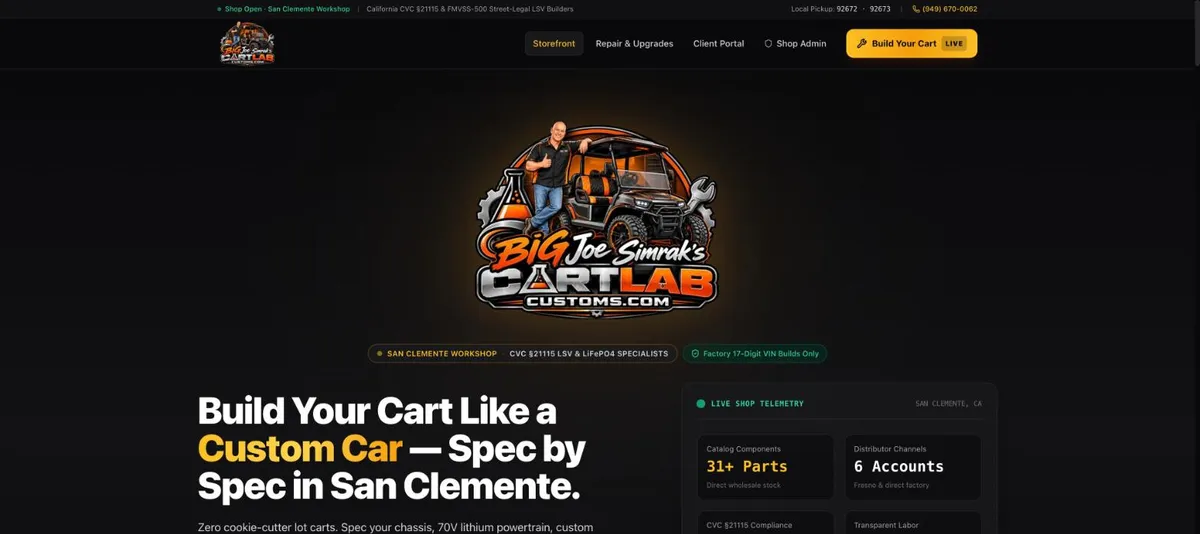
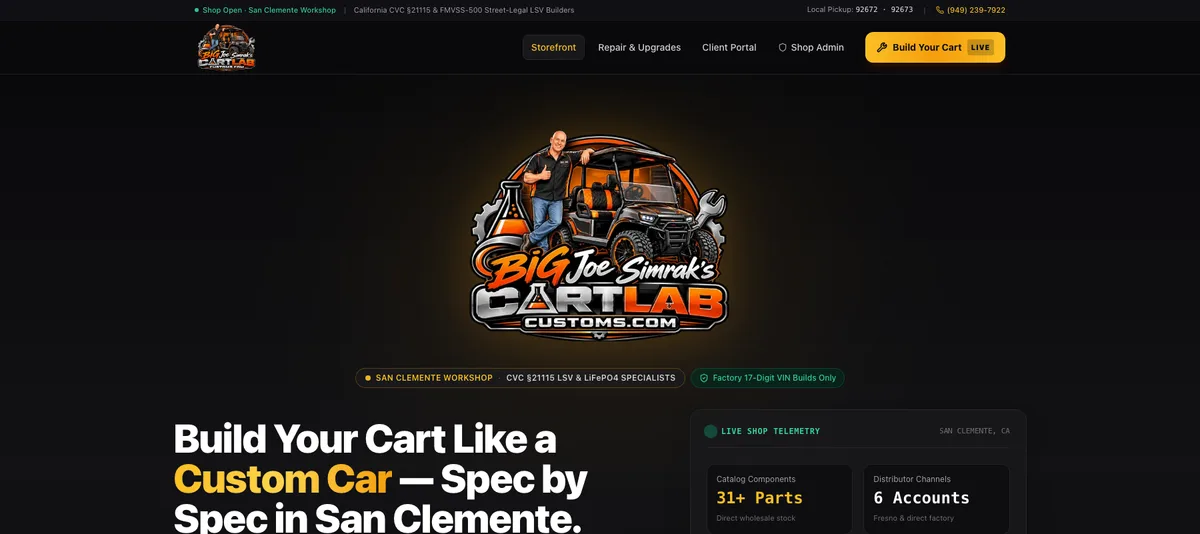
feat(portfolio): spotlight Joe Simrak's two sites (CartLab Customs, Second Wind Carts)
Adds a typed Project list and a two-up "Repeat client" row between the
featured Fix It card and the grid. Retook both screenshots from the live
sites so they show the current 949-239-7922 number.

diff --git a/components/Portfolio.tsx b/components/Portfolio.tsx
@@ -1,7 +1,17 @@
 import Image from "next/image";
 import { ExternalLink } from "lucide-react";
 
-const projects = [
+type Project = {
+  name: string;
+  description: string;
+  image: string;
+  alt: string;
+  tags: string[];
+  url: string;
+  spotlight?: boolean;
+};
+
+const projects: Project[] = [
   {
     name: "Fix It San Clemente",
     description: "Mobile auto repair with online booking — 40% more appointments after launch",
@@ -9,6 +19,24 @@ const projects = [
     alt: "Fix It San Clemente - mobile auto repair website with online booking built by Stack Consulting AI",
     tags: ["Next.js", "Booking", "Local SEO"],
     url: "https://fixitsanclemente.com"
+  },
+  {
+    name: "CartLab Customs",
+    description: "Joe's second site with us: a spec-by-spec cart configurator for street-legal LSV builds, repair and upgrade services, and a client portal",
+    image: "/screenshots/cartlabcustoms.webp",
+    alt: "CartLab Customs - custom golf cart and street-legal LSV builder website in San Clemente with a cart configurator and client portal",
+    tags: ["Next.js", "Cart Configurator", "Client Portal"],
+    url: "https://cartlabcustoms.com",
+    spotlight: true
+  },
+  {
+    name: "Second Wind Carts",
+    description: "Joe Simrak's golf cart repair and refresh shop: services, published pricing, a builds gallery, and a plan-your-cart quote request",
+    image: "/screenshots/secondwindcarts.webp",
+    alt: "Second Wind Carts - golf cart repair and custom builds website with pricing and quote request",
+    tags: ["Website", "Local SEO", "Quote Form"],
+    url: "https://secondwindcarts.com",
+    spotlight: true
   },
   {
     name: "Strategic Sync",
@@ -83,22 +111,6 @@ const projects = [
     url: "https://continental-interior-services.vercel.app"
   },
   {
-    name: "Second Wind Carts",
-    description: "Joe Simrak's golf cart repair and custom build shop — services, pricing, and a quote request",
-    image: "/screenshots/secondwindcarts.webp",
-    alt: "Second Wind Carts - golf cart repair and custom builds website with pricing and quote request",
-    tags: ["Website", "Local SEO", "Services"],
-    url: "https://secondwindcarts.com"
-  },
-  {
-    name: "CartLab Customs",
-    description: "Joe Simrak's San Clemente custom golf cart and street-legal LSV builder — spec-by-spec cart builder, repairs, and a client portal",
-    image: "/screenshots/cartlabcustoms.webp",
-    alt: "CartLab Customs - custom golf cart and street-legal LSV builder website in San Clemente with a cart configurator and client portal",
-    tags: ["Next.js", "E-commerce", "Client Portal"],
-    url: "https://cartlabcustoms.com"
-  },
-  {
     name: "Angel's Beauty Academy",
     description: "Lupita's Santa Ana beauty academy — bilingual Spanish/English site with classes, FAQ, and community gallery",
     image: "/screenshots/angelsbeautyacademy.webp",
@@ -117,7 +129,9 @@ const projects = [
 ];
 
 export default function Portfolio() {
-  const [featured, ...rest] = projects;
+  const [featured, ...others] = projects;
+  const spotlight = others.filter((p) => p.spotlight);
+  const rest = others.filter((p) => !p.spotlight);
 
   return (
     <section id="portfolio" className="py-24 px-4">
@@ -167,6 +181,56 @@ export default function Portfolio() {
             </div>
           </div>
         </a>
+
+        {/* Spotlight — one client, two sites */}
+        <div className="mb-8">
+          <div className="flex flex-wrap items-baseline justify-between gap-2 mb-4">
+            <p className="text-sm font-medium text-primary tracking-wide uppercase">
+              Repeat client · Joe Simrak, San Clemente
+            </p>
+            <p className="text-sm text-muted-foreground">
+              One shop owner, two businesses, two sites.
+            </p>
+          </div>
+          <div className="grid grid-cols-1 md:grid-cols-2 gap-4">
+            {spotlight.map((project) => (
+              <a
+                key={project.name}
+                href={project.url}
+                target="_blank"
+                rel="noopener noreferrer"
+                className="group block rounded-xl overflow-hidden border border-border hover:border-primary/50 transition-all duration-300"
+              >
+                <div className="relative h-56 md:h-64 overflow-hidden bg-secondary">
+                  <Image
+                    src={project.image}
+                    alt={project.alt}
+                    fill
+                    sizes="(max-width: 768px) 100vw, 50vw"
+                    className="object-cover object-top group-hover:scale-[1.03] transition-transform duration-500"
+                  />
+                </div>
+                <div className="p-6 bg-card">
+                  <div className="flex flex-wrap gap-2 mb-3">
+                    {project.tags.map((tag) => (
+                      <span key={tag} className="px-3 py-1 text-xs font-medium bg-primary/10 text-primary rounded-full">
+                        {tag}
+                      </span>
+                    ))}
+                  </div>
+                  <h3 className="text-xl font-bold mb-2 group-hover:text-primary transition-colors">
+                    {project.name}
+                  </h3>
+                  <p className="text-muted-foreground mb-4">{project.description}</p>
+                  <span className="inline-flex items-center gap-2 text-sm font-semibold text-primary">
+                    View Live Site
+                    <ExternalLink className="w-4 h-4" />
+                  </span>
+                </div>
+              </a>
+            ))}
+          </div>
+        </div>
 
         {/* Remaining Projects — compact grid */}
         <div className="grid grid-cols-1 sm:grid-cols-2 lg:grid-cols-3 gap-4">
